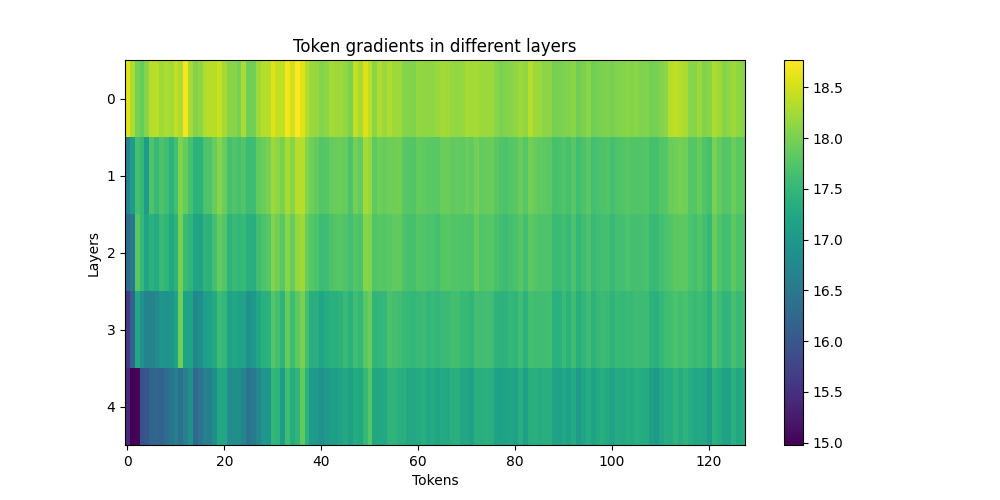
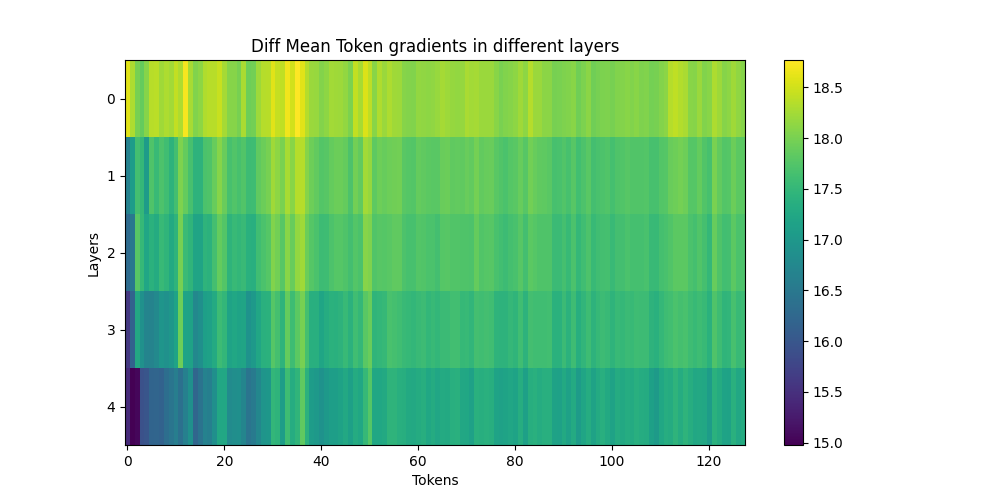
gradient-activation norm

Changed region(s): [[0.248, 0.06, 0.62, 0.12]]

diff --git a/main.py b/main.py
@@ -61,10 +61,14 @@ def plotting(data, name):
     plt.ylabel('Layers')
 
     # Optionally, you can add titles
-    if name == "figures/layer_seq_norm.png" or name == "figures/layer_seq_normwmean.png":
+    if name == "figures/layer_seq_norm.png":
         plt.title('Token activations in different layers')
-    elif name == "figures/grads_layer_seq_norm.png" or name == "figures/grad_layer_seq_normwmean.png":
+    elif name == "figures/layer_seq_normwmean.png":
+        plt.title('Diff Mean Token activations in different layers')
+    elif name == "figures/grads_layer_seq_norm.png":
         plt.title('Token gradients in different layers')
+    elif name == "figures/grad_layer_seq_normwmean.png":
+        plt.title('Diff Mean Token gradients in different layers')
 
     # Show the heatmap
     plt.savefig(name)
